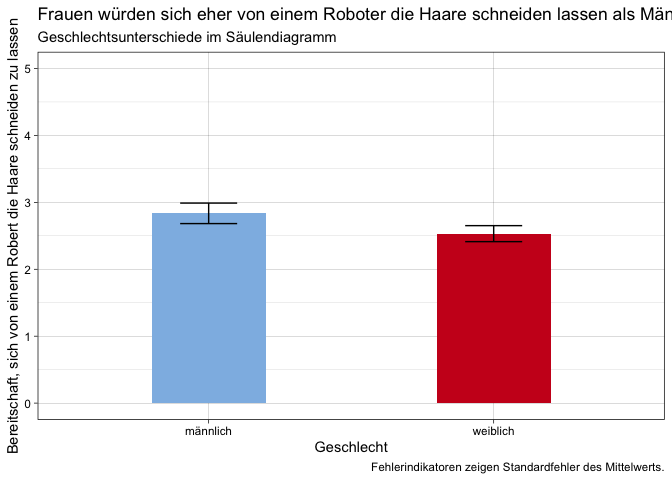
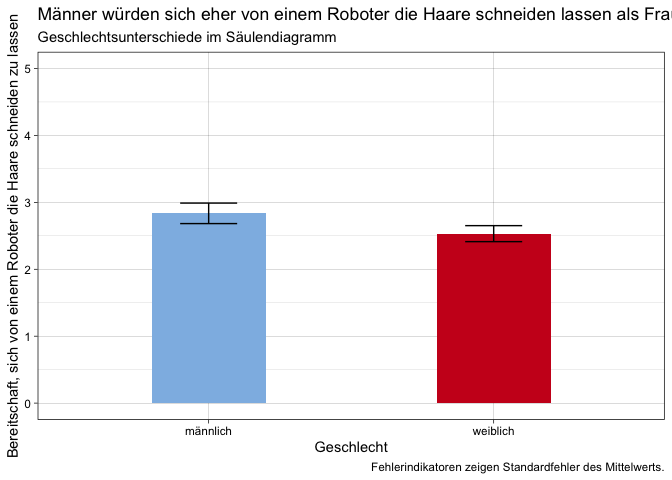
Änderungen Hausaufgabe

Changed region(s): [[0.0625, 0.0, 1.0, 0.0625], [0.0, 0.0312, 0.0312, 0.9688]]

diff --git a/SusannaFormanns/Diagramme_DahmenFormannsWolters.md b/SusannaFormanns/Diagramme_DahmenFormannsWolters.md
@@ -10,8 +10,8 @@
       geom_errorbar(width = 0.2) +
       scale_y_continuous(limits = c(0,5)) +
       labs(x = "Geschlecht",
-          y = "Bereitschaft, sich von einem Robert die Haare schneiden zu lassen",
-          title = "Frauen würden sich eher von einem Roboter die Haare schneiden lassen als Männer.",
+          y = "Bereitschaft, sich von einem Roboter die Haare schneiden zu lassen",
+          title = "Männer würden sich eher von einem Roboter die Haare schneiden lassen als Frauen.",
           subtitle = "Geschlechtsunterschiede im Säulendiagramm",
           caption = "Fehlerindikatoren zeigen Standardfehler des Mittelwerts.") +
      theme_linedraw() +
@@ -19,7 +19,7 @@
 
 ![](Diagramme_DahmenFormannsWolters_files/figure-markdown_strict/unnamed-chunk-1-1.png)
 
-    ggsave("Diagramm_Geschlecht.pdf", width = 9, height = 10)
+    ggsave("Diagramm_Geschlecht_neu.pdf", width = 9, height = 10)
 
 ### Diagramm 2 (Jobtyp)
 
@@ -33,7 +33,7 @@
       geom_errorbar(width = 0.2) +
       scale_y_continuous(limits = c(0,5)) +
       labs(x = "Jobtyp",
-          y = "Bereitschaft, sich von einem Robert die Haare schneiden zu lassen",
+          y = "Bereitschaft, sich von einem Roboter die Haare schneiden zu lassen",
           title = "Es gibt Unterschiede zwischen den Jobtypen in der Bereitschaft sich von einem Roboter die Haare schneiden zu lassen.",
           subtitle = "Unterschiede bzgl. Jobtypen im Säulendiagramm",
           caption = "Fehlerindikatoren zeigen Standardfehler des Mittelwerts.") +
@@ -42,4 +42,4 @@
 
 ![](Diagramme_DahmenFormannsWolters_files/figure-markdown_strict/unnamed-chunk-2-1.png)
 
-    ggsave("Diagramm_Jobtyp.pdf", width = 15, height = 10)
+    ggsave("Diagramm_Jobtyp_neu.pdf", width = 15, height = 10)
